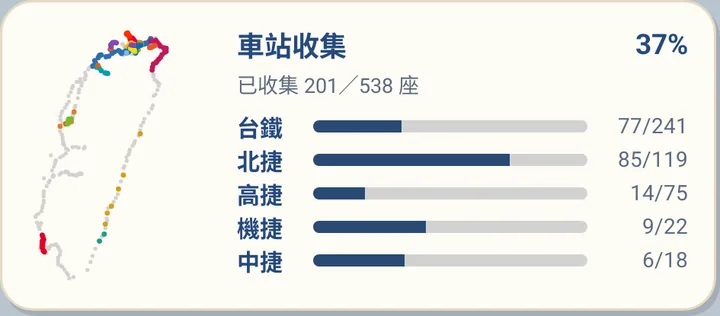
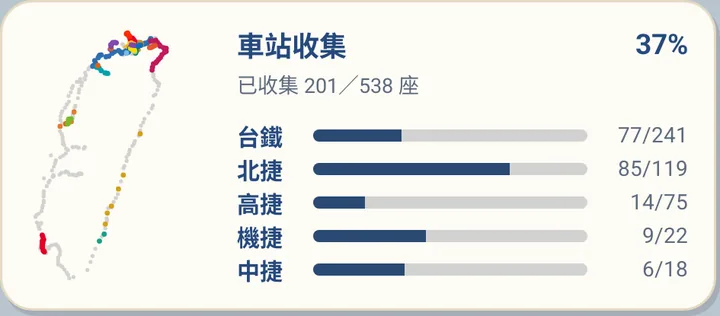
fix(android): 車站收集中卡照 iOS 分配垂直空間：標題貼頂、圖例貼底、中段置中
Pixel 桌面的 5×2 是 368×221dp，比 iOS 中卡高；原本全部貼頂，只收集三個系統時下半張卡整片空白
（真桌面、真 App 推的資料實拍到）。iOS MediumCollectionView 是 VStack 夾 Spacer，Android 照做：
wc_rows 開頭一個伸縮間隔、圖例前再一個（新版面 widget_collect_spacer，高度 0＋權重 1，列高預算不變）。
空狀態只有前一個間隔＝邀請文案在底部，與 iOS 相同。挑選器預覽版面同步，說明中心的中卡預覽圖用改後算圖重產。

驗證：儀器測試 OK (6 tests)；預言機 109 案 41662 次檢查 0 紅；裁切掃描 109 案 0 件；版面閘門 12 張；
parity 7/7；真桌面重拍（真 App 推的 3 座資料）三列置中、圖例貼底。

diff --git a/app/android/app/src/main/java/tw/railisland/app/CollectionWidgetRender.java b/app/android/app/src/main/java/tw/railisland/app/CollectionWidgetRender.java
@@ -166,6 +166,9 @@ final class CollectionWidgetRender {
         // 🔴 addView 會「累加」：launcher 對同一個 layout 是 reapply 到舊 View 樹，不先清掉，
         //    每次更新（換範圍、收集新站、換語言）都會在舊的列後面再長出一份（2026-09-30 真桌面看到全台列重複）。
         v.removeAllViews(R.id.wc_rows);
+        // 垂直分配照 iOS MediumCollectionView：標題貼頂、中段前一個伸縮間隔、有圖例時圖例前再一個（圖例貼底）。
+        // 間隔最小高度 0，下面的列高預算不用算它。
+        addSpacer(c, v);
         // 高度預算（dp）：列容器可用高度；各列自然高度隨字級縮放（allRows／scopeRows 內乘 fs）。
         float avail = hDp - CARD_PAD_V - MEDIUM_HEAD * fs;
         String pkg = c.getPackageName();
@@ -268,7 +271,12 @@ final class CollectionWidgetRender {
         v.addView(R.id.wc_rows, note);
     }
 
+    private static void addSpacer(Context c, RemoteViews v) {
+        v.addView(R.id.wc_rows, new RemoteViews(c.getPackageName(), R.layout.widget_collect_spacer));
+    }
+
     private static void addLegend(Context c, RemoteViews v) {
+        addSpacer(c, v);
         RemoteViews legend = new RemoteViews(c.getPackageName(), R.layout.widget_collect_legend);
         legend.setTextViewText(R.id.wc_legend_solid, RailNativeL10n.text(c, "實心＝搭過／到訪"));
         legend.setTextViewText(R.id.wc_legend_follow, RailNativeL10n.text(c, "空心＝跟完"));
